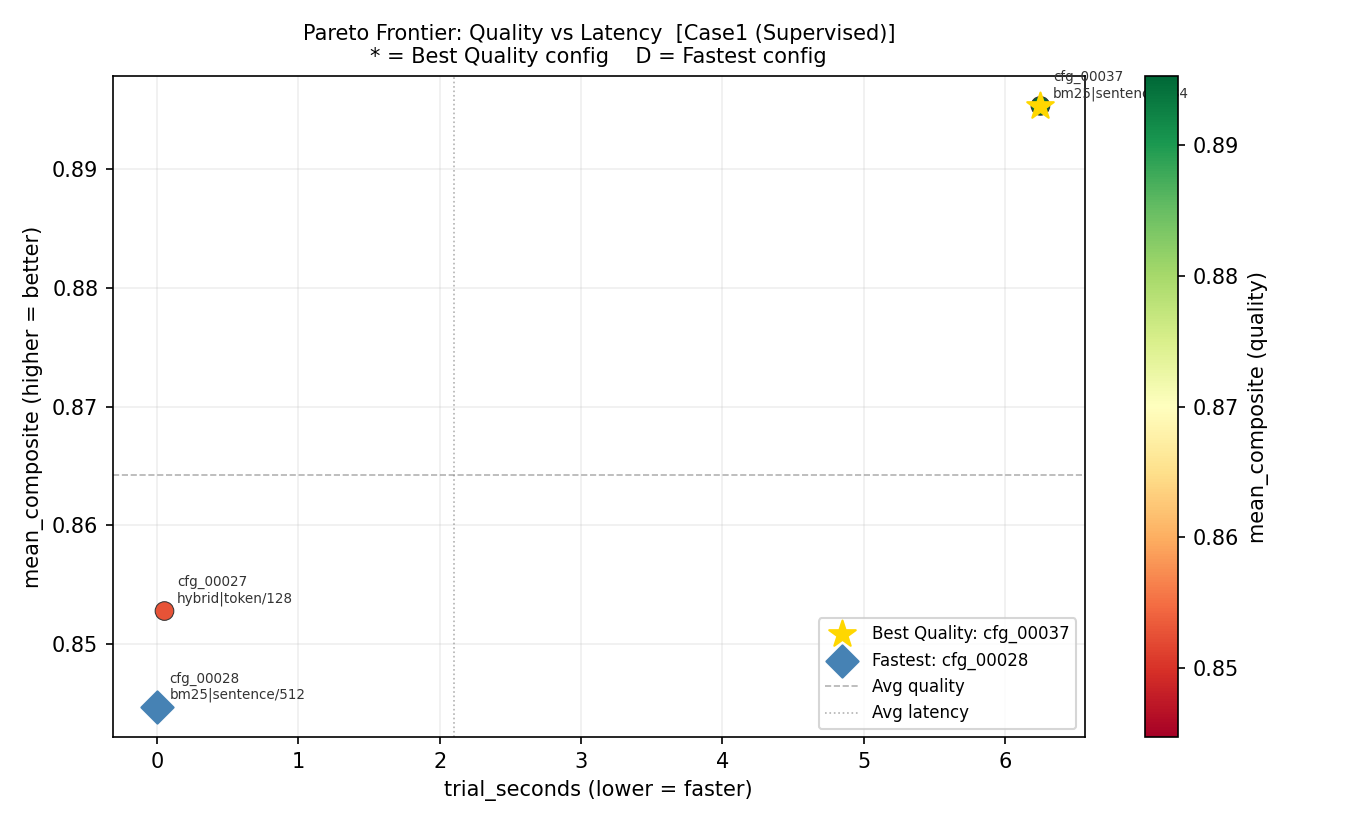
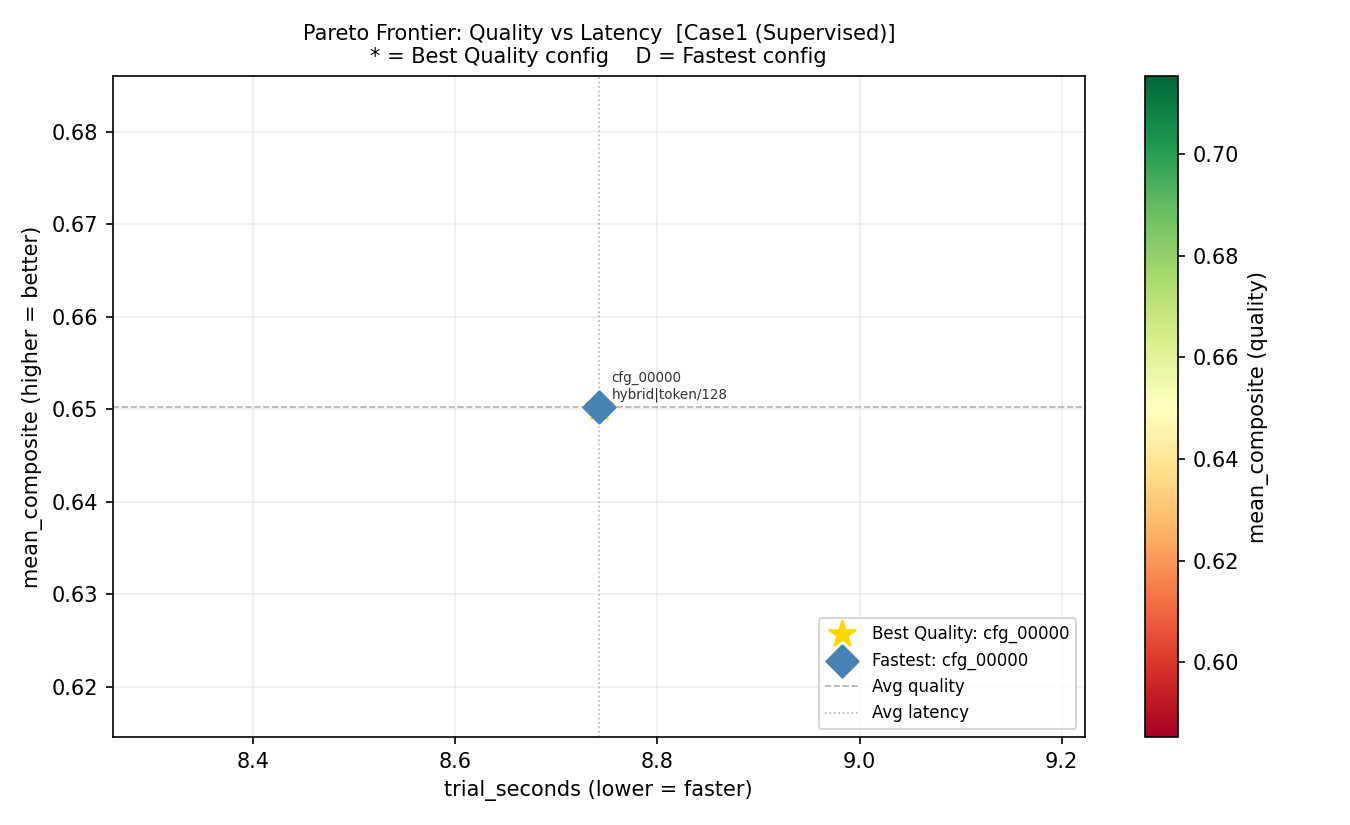
chore(outputs): refresh experiment artifacts and reports

diff --git a/outputs/final_report.md b/outputs/final_report.md
@@ -4,21 +4,21 @@
 本项目通过统一优化框架，在 Case1（有监督）与 Case2（弱监督）下自动搜索并选择最优 RAG 配置，输出可解释的推荐结果。
 
 ## 2. Case1 推荐配置（有监督）
-- 配置ID：`cfg_00037`
-- 检索器：bm25
-- 分块策略：sentence / size=384
+- 配置ID：`cfg_00000`
+- 检索器：hybrid
+- 分块策略：token / size=128
 - 重排：False
-- 训练分数：0.8953，保留集分数：0.9532，过拟合差值：-0.0579
+- 训练分数：0.6503，保留集分数：0.8926，过拟合差值：-0.2423
 
 **推荐原因：**
 Case1 以 context_recall + answer_similarity + faithfulness 为目标，最优配置在训练集与保留集上表现稳定，说明在有参考答案场景下泛化较好。
 
 ## 3. Case2 推荐配置（弱监督）
-- 配置ID：`cfg_00016`
+- 配置ID：`cfg_00000`
 - 检索器：hybrid
-- 分块策略：token / size=256
-- 重排：True
-- 训练分数：0.74，保留集分数：0.8423，过拟合差值：-0.1023
+- 分块策略：token / size=128
+- 重排：False
+- 训练分数：0.7042，保留集分数：0.8423，过拟合差值：-0.1381
 
 **推荐原因：**
 Case2 无参考答案，优化目标切换为 retrieval_coverage_proxy + groundedness + citation_quality。该配置在弱监督代理指标下综合最优，且能够保持答案与检索证据的一致性。
@@ -28,10 +28,10 @@ Case2 无参考答案，优化目标切换为 retrieval_coverage_proxy + grounde
 |---|---|---|
 | 优化目标 | 提升答案与参考的一致性，同时保证证据支撑 | 在无参考答案条件下最大化证据覆盖与可溯源性 |
 | 核心指标 | context_recall / answer_similarity / faithfulness | retrieval_coverage_proxy / groundedness / citation_quality |
-| 推荐配置ID | cfg_00037 | cfg_00016 |
-| train_score | 0.8953 | 0.74 |
-| holdout_score | 0.9532 | 0.8423 |
-| overfit_gap | -0.0579 | -0.1023 |
+| 推荐配置ID | cfg_00000 | cfg_00000 |
+| train_score | 0.6503 | 0.7042 |
+| holdout_score | 0.8926 | 0.8423 |
+| overfit_gap | -0.2423 | -0.1381 |
 
 ## 5. Case1 到 Case2 的迁移优化思路
 - 保留 Case1 中已验证有效的结构化分块、检索与重排搜索空间；
